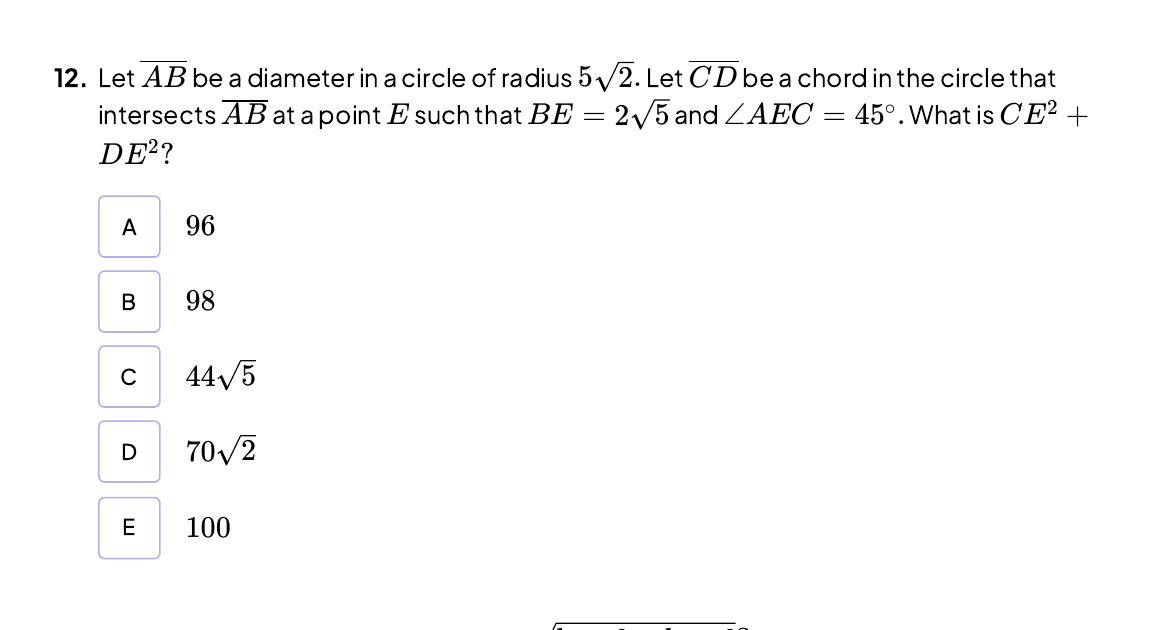
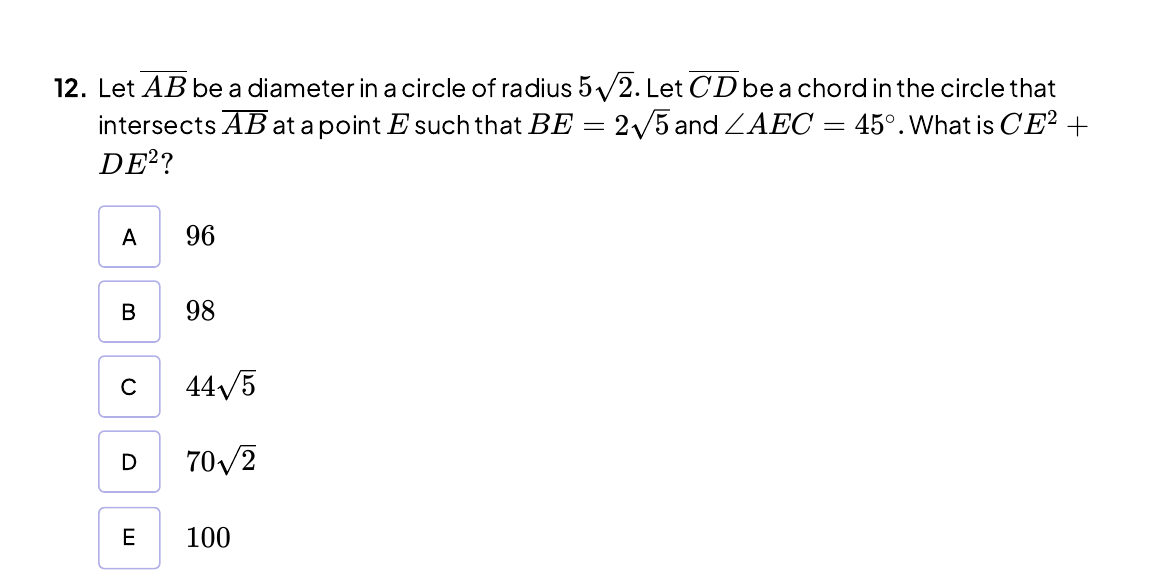
fix(2020-b): align overview and repair crops
Match the overview structure used by later exams, including topic links

and answer values. Replace crops that included adjacent questions or

omitted answer choices.

diff --git a/Problems/2020-B/Overview.md b/Problems/2020-B/Overview.md
@@ -1,47 +1,69 @@
+---
+year: 2020
+contest: AMC12B
+type: exam
+status: completed
+---
+
 # AMC12 2020-B
 
 - Date: February 19, 2020
-- [Full problem PDF](../../assets/problems/2020-B/2020-AMC12B.pdf)
+- Full problem PDF: [2020 AMC 12B PDF](../../assets/problems/2020-B/2020-AMC12B.pdf)
+- Online problems and solutions: [Po-Shen Loh 2020 AMC 12B](https://live.poshenloh.com/past-contests/amc12/2020B/solutions)
+- Problem archive: [AoPS 2020 AMC 12B](https://artofproblemsolving.com/wiki/index.php/2020_AMC_12B_Problems)
 
 ## Problems
 
-- [ ] [[Q01]]
-- [ ] [[Q02]]
-- [ ] [[Q03]]
-- [ ] [[Q04]]
-- [ ] [[Q05]]
-- [ ] [[Q06]]
-- [ ] [[Q07]]
-- [ ] [[Q08]]
-- [ ] [[Q09]]
-- [ ] [[Q10]]
-- [ ] [[Q11]]
-- [ ] [[Q12]]
-- [ ] [[Q13]]
-- [ ] [[Q14]]
-- [ ] [[Q15]]
-- [ ] [[Q16]]
-- [ ] [[Q17]]
-- [ ] [[Q18]]
-- [ ] [[Q19]]
-- [ ] [[Q20]]
-- [ ] [[Q21]]
-- [ ] [[Q22]]
-- [ ] [[Q23]]
-- [ ] [[Q24]]
-- [ ] [[Q25]]
+- [ ] [[Q01]] — Sums of odd integers
+- [ ] [[Q02]] — Difference of squares
+- [ ] [[Q03]] — Chained ratios
+- [ ] [[Q04]] — Prime angles in a right triangle
+- [ ] [[Q05]] — Fractions of game totals
+- [ ] [[Q06]] — Factorials and perfect squares
+- [ ] [[Q07]] — Slopes and angle conditions
+- [ ] [[Q08]] — Completing the square
+- [ ] [[Q09]] — Sector-to-cone geometry
+- [ ] [[Q10]] — Circle and coordinate geometry
+- [ ] [[Q11]] — Regular hexagon and circular segments
+- [ ] [[Q12]] — Chords and coordinates
+- [ ] [[Q13]] — Logarithms and perfect squares
+- [ ] [[Q14]] — Symmetry strategy in a game
+- [ ] [[Q15]] — Perfect matchings
+- [ ] [[Q16]] — Conditional probability
+- [ ] [[Q17]] — Polynomial roots and cube roots of unity
+- [ ] [[Q18]] — Area decomposition and coordinates
+- [ ] [[Q19]] — Symmetries of a square
+- [ ] [[Q20]] — Cube-coloring orbits
+- [ ] [[Q21]] — Floor functions
+- [ ] [[Q22]] — Quadratic optimization
+- [ ] [[Q23]] — Unit vectors and zero sums
+- [ ] [[Q24]] — Ordered multiplicative partitions
+- [ ] [[Q25]] — Trigonometric probability
 
-## Answers
+## Answer Key
 
-| Problem | Q01 | Q02 | Q03 | Q04 | Q05 | Q06 | Q07 | Q08 | Q09 | Q10 | Q11 | Q12 | Q13 |
-| --- | --- | --- | --- | --- | --- | --- | --- | --- | --- | --- | --- | --- | --- |
-| Answer | C | A | E | D | C | D | C | D | C | B | D | E | D |
-
-| Problem | Q14 | Q15 | Q16 | Q17 | Q18 | Q19 | Q20 | Q21 | Q22 | Q23 | Q24 | Q25 |
-| --- | --- | --- | --- | --- | --- | --- | --- | --- | --- | --- | --- |
-| Answer | A | C | B | C | B | C | D | C | C | B | A | B |
-
-## Sources
-
-- [Po-Shen Loh: 2020 AMC 12B solutions](https://live.poshenloh.com/past-contests/amc12/2020B/solutions)
-- [AoPS: 2020 AMC 12B Problems](https://artofproblemsolving.com/wiki/index.php/2020_AMC_12B_Problems)
+- Q01 — C: $10$
+- Q02 — A: $1$
+- Q03 — E: $16:3$
+- Q04 — D: $7$
+- Q05 — C: $42$
+- Q06 — D: A perfect square
+- Q07 — C: $\frac32$
+- Q08 — D: $4$
+- Q09 — C: $3\pi\sqrt7$
+- Q10 — B: $\frac{\sqrt5}{10}$
+- Q11 — D: $3\sqrt3-\pi$
+- Q12 — E: $100$
+- Q13 — D: $\sqrt{\log_2 3}+\sqrt{\log_3 2}$
+- Q14 — A: Bela always wins
+- Q15 — C: $13$
+- Q16 — B: $\frac15$
+- Q17 — C: $2$
+- Q18 — B: $8-4\sqrt2$
+- Q19 — C: $2^{38}$
+- Q20 — D: $\frac{147}{1024}$
+- Q21 — C: $6$
+- Q22 — C: $\frac1{12}$
+- Q23 — B: $2$
+- Q24 — A: $112$
+- Q25 — B: $2-\sqrt2$